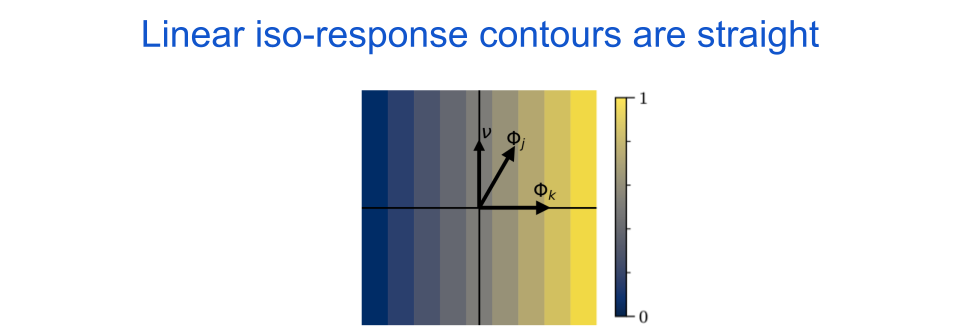
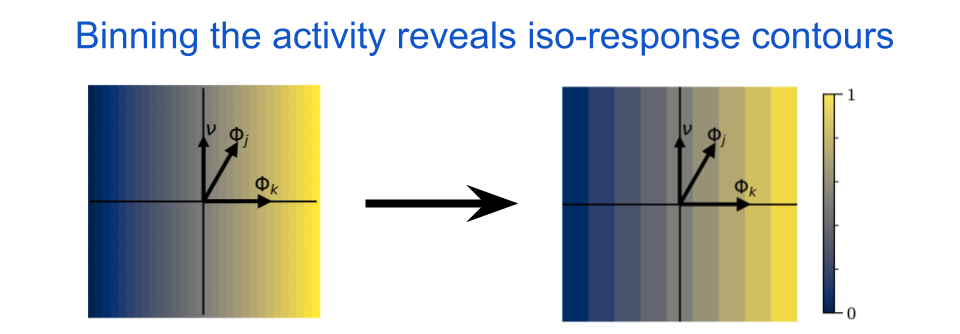
clarifies experiments & fixes up some figures

diff --git a/_posts/2021-05-18-neuron-response-contours.md b/_posts/2021-05-18-neuron-response-contours.md
@@ -16,7 +16,7 @@ Dylan M Paiton
 ### Neuron selectivity and invariance
 An important computational goal of the early visual pathway, from the retina to the primary visual cortex (V1), is to produce a representation of visual features that are useful for downstream tasks, like navigating the world and identifying objects.
 In order for a V1 neuron’s output to be decoded by downstream brain areas, it must reliably modulate its response with respect to certain variations in the visual world and remain constant for others.
-For example, lets suppose we live in a binary edge world, where all scenes are made up of combinations of oriented edges.
+For example, let's suppose we live in a binary edge world, where all scenes are made up of combinations of oriented edges.
 In such a world, images of vertical edges would occur when a column of 1s immediately preceded a column of 0s, or vice versa.
 To encode such a world, our brain might want to have a 'vertical edge detector' neuron that signals the presence of any vertical edges.
 This means we want our neuron to be _selective_ for the presence of an vertical edge, as opposed to other orientations, but _invariant_ to the phase of the edge, i.e. whether it is 0s followed by 1s or the other way around.
@@ -27,9 +27,9 @@ This discovery occured in the late 1950s and created a revolution in neuroscienc
 About twenty years later a scientist named Dr. Kunihiko Fukushima proposed a computer model to emulate the discovered behavior.
 His invention, called the [neocognitron](http://www.scholarpedia.org/article/Neocognitron), was one of the earliest ancestors of the modern day deep neural network.
 One of the defining elements of the neocognitron were "C-cells", which were designed to be selective for features in the world, but invariant to their position.
-In modern artificial neural networks, we often label neurons by what they are most selective for, such as [snout detectors](https://distill.pub/2017/feature-visualization/), and we explicitly engineer components that create invariance, such as [pooling](https://ai.plainenglish.io/pooling-layer-beginner-to-intermediate-fa0dbdce80eb).
+In modern artificial neural networks, we often label neurons by what they are most selective for, such as [snout or car detectors](https://distill.pub/2017/feature-visualization/), and we explicitly engineer components that create invariance, such as [pooling](https://ai.plainenglish.io/pooling-layer-beginner-to-intermediate-fa0dbdce80eb).
 Today scientists have a variety of methods to measure and quantify selectivity and invariance in both biological as well as artificial neurons.
-These measurements are extremely important, and are often used to categorize neurons into certain groups.
+These measurements are extremely important for developing an understanding of how we process information, and are often used to categorize neurons into groups.
 This blog post aims to explain one such method, which is currently primarily used in neuroscience and relies on characterizing the geometry of a neuron's _response surface_.
 
 ### The neural response surface
@@ -39,7 +39,6 @@ Going forward, we will define the _target neuron_ as the neuron that we are curr
 Lets assume that the target neuron will produce an output for any combination of signals coming from the 100 input neurons.
 Or, put another way, the target neuron is a function that maps a 100-dimensional input to a single-dimensional (i.e. scalar) output.
 The neural response surface is a description of the neuron's output for all possible combinations of inputs.
-In this example the response surface would be 101-dimensional, since we want to keep track of each 100-dimensional input as well as the corresponding 1-dimensional output.
 
 It is impossibly difficult to measure the entire response surface of a neuron, even in the case of simple artificial neural networks.
 However, if we assume that the response surface is relatively smooth and regular, then we can still learn a lot about the neuron by looking at cross sections, which are much more tractible to estimate.
@@ -53,7 +52,7 @@ Just like cutting an onion in half, one type of cross section will reveal very d
 Taking cross sections of complicated surfaces can reveal structure, but the structure looks different depending on the orientation of the cross section.
 {: style="text-align: center; font-size:11pt"}
 
-Instead of input from other neurons, lets consider a neuron that receives image pixels as input and produces a scalar output.
+Instead of input from other neurons, let's consider a neuron that receives image pixels as input and produces a scalar output.
 Individual input images can also be thought of as points in a high dimensional space.
 For example, a 10-by-10 image thumbnail has 10\*10=100 pixels.
 Therefore, we can equivalently think of the image as a point in a 100-dimensional space.
@@ -94,7 +93,7 @@ For any given cross section, all of the images are [coplanar](https://en.wikiped
 **fig. 3**
 We discretize an image cross section into a two-dimensional grid and collect the points to define a dataset
 of images.
-The black arrows are perpendicular (i.e. _orthogonal_) vectors that define the plane.
+The black arrows are perpendicular vectors that define the plane.
 The origin for all of the planes we consider here will be a zero-contrast image, in other words a uniform gray image.
 {: style="text-align: center; font-size:11pt"}
 
@@ -105,9 +104,9 @@ To see the iso-response contours, we will compute the neuron’s output (i.e. _a
 
 As I said before, we want to pick a plane that is relevant for our neuron.
 To do this we define one of the two plane axes as the neuron's _maximally exciting image (MEI)_, which is an image that was optimized to look like the feature in the world that is most interesting to the neuron.
-There are a lot of ways to find a neuron's MEI in neuroscience and in artificial neural network research, but for now lets leave asside how the image was produced and just assume it is representative of what the neuron likes most.
+There are a lot of ways to find a neuron's MEI in neuroscience and in artificial neural network research, but for now let's leave asside how the image was produced and just assume it is representative of what the neuron likes most.
 Going forward, we will represent the MEI with the symbol $$\Phi_{k}$$ (read: [phi](https://en.wikipedia.org/wiki/Phi), sounds like "fi" in "financial"), where the $$k$$ tells us it is the MEI for the $$k$$th neuron in our assembly.
-For now lets just assume that the other axis is any random orthogonal image, but we will change that later.
+For now the other axis can be any random perpendicular (i.e. _[orthogonal](https://en.wikipedia.org/wiki/Orthogonality)_) image, but we will choose more specific orthogonal images later.
 
 ![choosing-the-right-plane]
 {: style="text-align: center; font-size:11pt"}
@@ -151,10 +150,10 @@ between the lines.
 This is true for all types of pointwise nonlinearities, which we demonstrate by also including a sigmoid nonlinearity.
 
 ### Straight vs. curved contours
-Other types of artificial neurons, as well as biological neurons, tend to have more complicated iso-response contours.
-Specifically, they tend to have _curvature_ in the sense that they bend towards or away from the origin.
+Biological neurons tend to have more complicated iso-response contours, which are sometimes also found in more sophisticated artificial neural network architectures.
+Specifically, the contours tend to have _curvature_ in the sense that they bend towards or away from the origin.
 Since linear neurons produce straight contours, it is reasonable to think about curvature as indicating a deviation from linearity -- more curvy contours indicate less linear functions.
-Additionally, lets differentiate between outward curvature, which means it's bending away from the origin, and inward curvature, which means it is bending towards the origin.
+Additionally, let's differentiate between outward curvature, which means it's bending away from the origin, and inward curvature, which means it is bending towards the origin.
 One reason curvature is significant is because it tells us about what variations in the world the neuron is selective for and invariant against.
 To understand that better, let's consider a few different types of coplanar perturbations that we can make from an input image.
 Here is a list of some options for a starting image along the horizontal axis:
@@ -176,20 +175,29 @@ Darker colors indicate higher neural activation.
 For linear neuron & pointwise nonlienar neurons, the last two directions are equal.
 But they are not equal for neurons with bent iso-response contours.
 What does this tell us?
-Lets look at one in particular to start, the 'up' perturbation for straight and outward bending contours.
+Each of the perturbation options above can be thought of as an experimental condition.
+We will look at the results from two such experiments to visualize the difference between straight and curved contours.
+
+### Experiment 1: Noise perturbations
+To start we will look at the 'up' perturbation condition for straight and outward bending contours.
 
 ![up-perturbation]
 {: style="text-align: center; font-size:11pt"}
 
 **fig. 8**
 The 'up' perturbation direction reveals an important difference between neurons with straight contours and neurons with outward curved contours.
+The orthogonal, $$\nu_{\text{noise}}$$ axis is chosen to be a noisy image.
 The line plot on the right indicates the response of the neuron (vertical axis) for each image type (horizontal axis).
+Each perturbation point is displayed on the right.
 {: style="text-align: center; font-size:11pt"}
 
-Again lets consider the pointwise nonlinear neuron.
+To start, we have two neurons with identical MEIs, but different curvature.
+The vertical axis that helps define our plane, $$\nu_{\text{noise}}$$, is a random noise image.
+This means that an 'up' perturbation will result in the MEI looking more and more noisy.
+Again let's consider the pointwise nonlinear neuron.
 What happens to the output if we take a fixed point on the $$\Phi_{k}$$ axis and then perturb orthognally in the up direction?
 Nothing; as expected, the response is flat.
-However, the neuron with outward curvature decreases its output, $$a_{k}$$, as we perturb "up" in the $$\nu$$ direction.
+However, the neuron with outward curvature decreases its output, $$a_{k}$$, as we perturb "up" in the $$\nu_{\text{noise}}$$ direction.
 We call this _response attenuation_.
 This means the neuron is selective against orthogonal perturbations away from its preferred stimulus.
 In other words, outward bending contours reveal that the target neuron’s output contains more information about how close the stimulus is to its MEI than straight contours.
@@ -197,15 +205,27 @@ In other words, outward bending contours reveal that the target neuron’s outpu
 This is important if we consider what the "MEI" means.
 In both studies of artificial neural networks and biology, scientists use MEIs or something similar to label neurons and group them together.
 For example, if the MEI is a vertical edge, then we would label the neuron a "vertical edge detector".
-As we perturb an image away from the MEI axis, it will look less like the MEI and more like the image $$\nu$$.
+As we perturb an image away from the MEI axis, it will look less like the MEI and more like the image $$\nu_{\text{noise}}$$.
 For linear and pointwise nonlinear neurons, we can perturb images along any direction that is orthogonal to the neuron’s preferred stimulus as far as we want and the response will not change.
 However, for neurons with outward facing iso-response contour curvature, orthogonal perturbations will result in response attenuation.
 Therefore, the neuron outputs have a higher degree of correspondence to their preferred stimulus label, and thus their output carries more relevant information about the input.
 Another way to say all of this is to say that the outward curvature indicates increased _selectivity_, where the amount of selectivity is proportional to the amount of curvature.
 
-As another example of the utility of this analysis, lets look at one more case, which is the perturbations that are along the iso-response contour.
-In this case, lets compare the neuron with flat iso-response contours to the one with inward curved iso-response contours.
+### Experiment 2: Phase perturbations
+As another example of the utility of this analysis, let's look at perturbations that are along the iso-response contour.
+Again both neurons will have the same MEI, but different curvature.
+In this case, let's compare the neuron with flat iso-response contours to the one with inward curved iso-response contours.
+This time we will define the vertical axis to be a phase shifted version of the neurons' MEI.
+There are lines that are defined by the transition between light and dark lobes in the image.
+If we shift the phase of the edge, then each line will continuously move to the left or right, depending on what direction we shift the phase.
+This is a continuous and non-linear process.
+
 If we look at the images that lie along evenly spaced intervals of the contours we can see a clear difference between the two neuron types.
+The perturbations for the top neuron have similar behavior as in the first experiment.
+With increasing perturbations, the image will look less like $$\Phi_{k}$$ and more like $$\nu_{\text{phase}}$$.
+However, this transition is _linear_, which means you will see both phases super-imposed on top of each other.
+It is not actually shifting the phase of the edge.
+The perturbations for the top neuron, on the other hand, result in a continuous phase shift.
 By definition, since these images lie along the iso-response contour, the output of the neuron is equal for all of them.
 This means that the bottom cell has phase _invariance_, while the top cell does not.
 
@@ -213,21 +233,23 @@ This means that the bottom cell has phase _invariance_, while the top cell does 
 {: style="text-align: center; font-size:11pt"}
 
 **fig. 9**
-The 'contour' perturbation direction reveals an important difference between neurons with straight contours and neurons with inward curved contours.
-The generated images are called _Gabor functions_, and are often used as an approximation of V1 neuron MEIs.
-Images produced along the contour for the top neuron cause the $$\nu$$ component to become more visible and the $$\Phi_{k}$$ component to become less visible.
-In this case, it just looks like darks are getting darker and whites are getting whiter, although if you inspect it carefully you should see that it is not happening equally for all vertical segments.
-However, images that lie along the bottom neuron's contour shift in phase.
+The 'contour' perturbation direction reveals invariance for neurons with inward-bending iso-response contours.
+Perturbing along the top neuron's iso-response contour will make the image look less like $$\Phi_{k}$$ and more like $$\nu_{\text{phase}}$$, but not by actually shifting the phase of the edge.
+However, perturbing along the bottom neuron's contour results in a phase shift.
 {: style="text-align: center; font-size:11pt"}
 
 ## Wrap up
-There is much more that we can learn by looking at the curvature of the iso-response surfaces, which I will discuss in upcoming posts.
-For now, the big takeaways are:
+These two experiments illustrate that iso-response curvature can indicate important information about how a neuron processes its input.
+The curvature analysis gives us a succinct way to understand the nonlinear function a neuron is performing, and allows us to know what features, or changes in features, that a neuron does and does not care about.
+
+In summary, the big takeaways are:
 - linear and pointwise nonlinear neurons have flat iso-response contours, regardless of the nonlinearity used
+- flat iso-response contours indicate linearity, and that the neuron's response will not change if inputs are perturbed orthogonally from their preferred stimulus
 - outward-curved contours indicate selectivity, and the amount of curvature will tell us how selective the neuron is
 - inward-curved contours indicate invariance, which is a property of biological complex cells
 
-For more published scientific articles on this topic, I recommend reading [my own paper](/publication/2020-11-02-selectivity-and), as well as the work of [James Golden et al. (PDF)](http://jamesgolden.net/wp-content/uploads/2017/10/golden_vilankar_wu_field_conjectures_nonlinear_geometry_vision_research_2016_preprint.pdf).
+There is much more that we can learn by looking at the curvature of the iso-response surfaces, which I will discuss in upcoming posts.
+In the interum, if you are eager to read more, check out [my own paper](/publication/2020-11-02-selectivity-and), as well as the work of [James Golden et al. (PDF)](http://jamesgolden.net/wp-content/uploads/2017/10/golden_vilankar_wu_field_conjectures_nonlinear_geometry_vision_research_2016_preprint.pdf).
 
 [curvatures]: /images/response-geometry/curvatures.png
 [2d-plane]: /images/response-geometry/2d-plane.png
